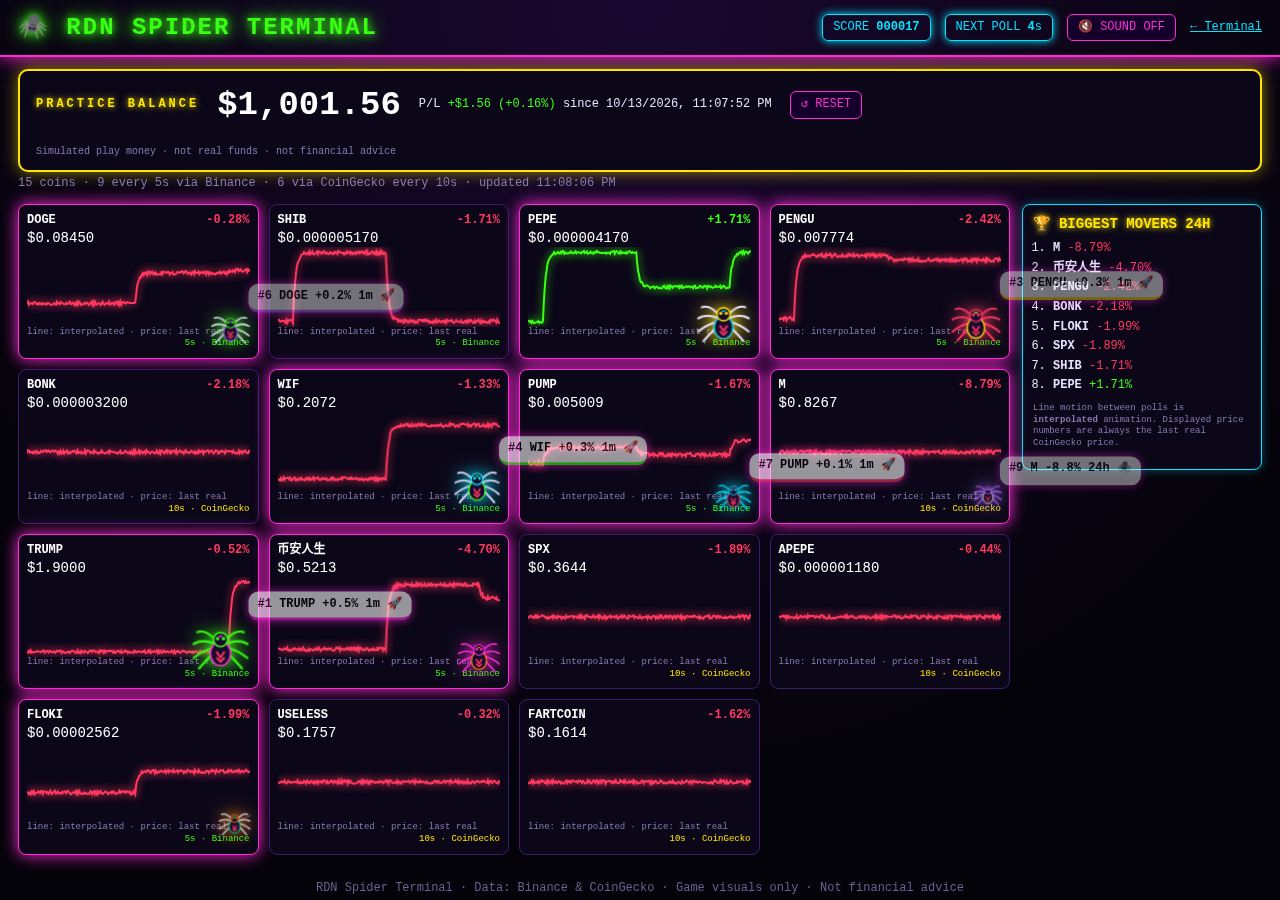
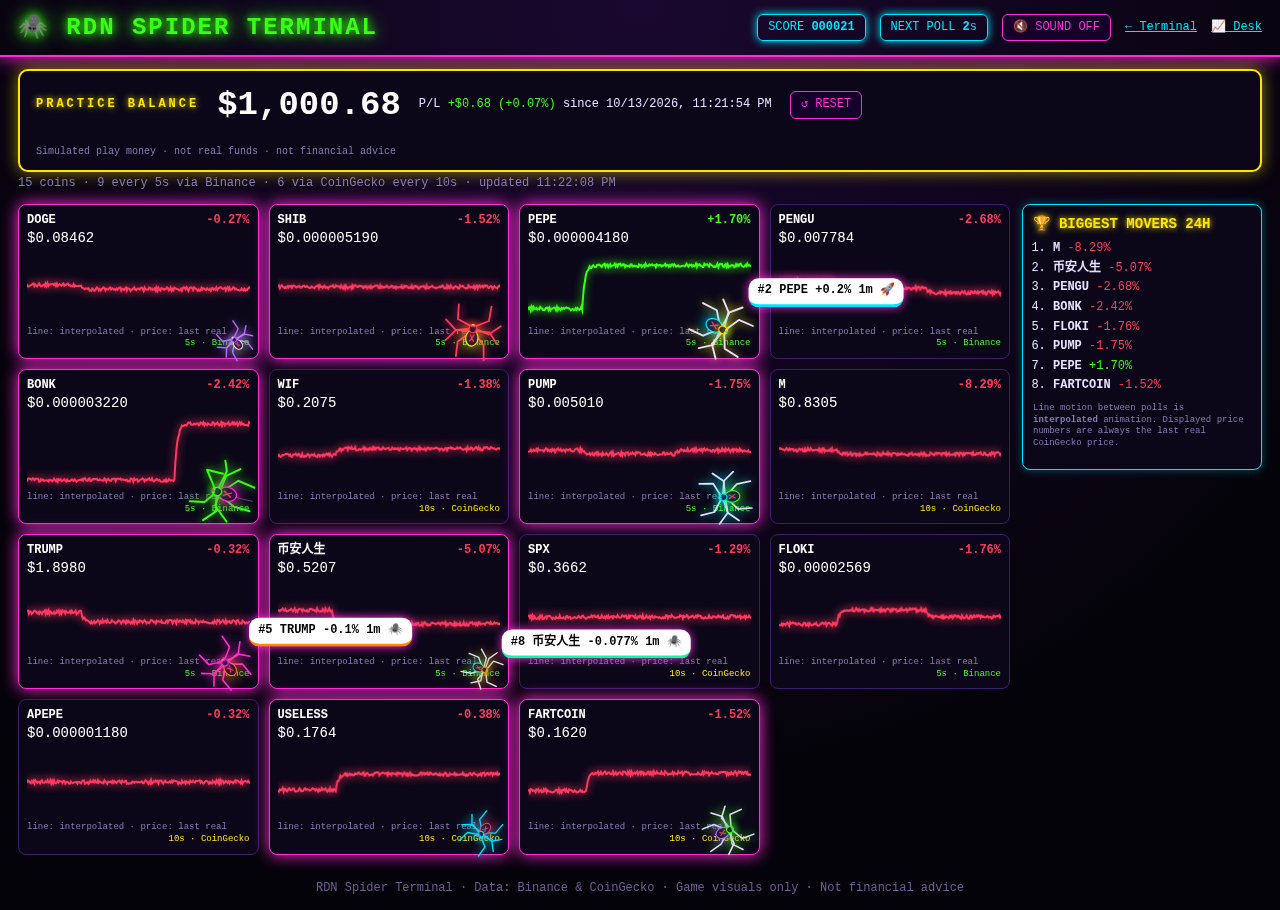
Procedural canvas spider (IK legs, tetrapod gait, smooth paths) on desk + skull

Changed region(s): [[0.0, 0.1556, 1.0, 0.9956], [0.0312, 0.0, 1.0, 0.1556]]

diff --git a/skull/index.html b/skull/index.html
@@ -14,8 +14,8 @@ button{background:#14002a;color:#ff2bd6;border:1px solid #ff2bd6;padding:5px 10p
 canvas.c{width:100%;height:80px;display:block}.p{font-size:14px;color:#fff}.lbl{font-size:9px;color:#8a7bb0}
 aside{background:#0b0718;border:1px solid #00e5ff;border-radius:8px;padding:10px;box-shadow:0 0 10px #00e5ff55;height:fit-content}
 aside h3{margin:0 0 8px;color:#ffe600;text-shadow:0 0 6px #ffe600}aside ol{margin:0;padding-left:20px}aside li{margin:4px 0}
-.sp{position:fixed;left:0;top:0;pointer-events:none;z-index:10}.sp svg{width:100%;height:100%;filter:drop-shadow(0 0 8px var(--c2))}.src{font-size:9px;float:right}.src.b{color:#39ff14}.src.g{color:#ffe600}
-#trail{position:fixed;inset:0;pointer-events:none;z-index:9}
+.src{font-size:9px;float:right}.src.b{color:#39ff14}.src.g{color:#ffe600}
+#trail{position:fixed;inset:0;pointer-events:none;z-index:9}.bub{z-index:11}
 .bub{position:fixed;left:0;top:0;transition:opacity .4s;z-index:11;background:#fff;color:#000;font-weight:700;padding:5px 9px;border-radius:10px;white-space:nowrap;pointer-events:none;box-shadow:0 0 10px #ff2bd6}
 #st{color:#8a7bb0;padding:0 18px}footer{text-align:center;color:#6d5f90;padding:14px}a{color:#00e5ff}
 @media(max-width:800px){.wrap{grid-template-columns:1fr}}
@@ -27,7 +27,7 @@ aside h3{margin:0 0 8px;color:#ffe600;text-shadow:0 0 6px #ffe600}aside ol{margi
 <div id="bal"><div class="bl">PRACTICE BALANCE</div><div id="bv">$1,000.00</div><div id="bp">P/L $0.00 (0.00%) since start</div><button id="brst">↺ RESET</button><div class="bn">Simulated play money · not real funds · not financial advice</div></div>
 <div id="st">Loading real prices…</div>
 <div class="wrap"><div id="grid"></div><aside><h3>🏆 BIGGEST MOVERS 24H</h3><ol id="lb"></ol><p class="lbl">Line motion between polls is <b>interpolated</b> animation. Displayed price numbers are always the last real CoinGecko price.</p></aside></div>
-<canvas id="trail"></canvas>
+<canvas id="trail"></canvas><script src="../spider.js"></script>
 <svg width="0" height="0" style="position:absolute"><style>.lg{stroke:var(--leg);stroke-width:2.2;fill:none;stroke-linecap:round}.L{transform-origin:32px 34px;animation:wg .18s infinite alternate ease-in-out}.R{transform-origin:32px 34px;animation:wg .18s infinite alternate-reverse ease-in-out}@keyframes wg{from{transform:rotate(-7deg)}to{transform:rotate(7deg)}}</style><defs><symbol id="spd" viewBox="0 0 64 64"><g class="L"><path class="lg" d="M28 30 Q16 18 8 22"/><path class="lg" d="M27 33 Q14 28 5 34"/><path class="lg" d="M27 36 Q14 40 6 48"/><path class="lg" d="M28 39 Q18 50 12 58"/></g>
 <g class="R"><path class="lg" d="M36 30 Q48 18 56 22"/><path class="lg" d="M37 33 Q50 28 59 34"/><path class="lg" d="M37 36 Q50 40 58 48"/><path class="lg" d="M36 39 Q46 50 52 58"/></g>
 <ellipse cx="32" cy="42" rx="10" ry="12" fill="#1a0b2e" stroke="var(--c1)" stroke-width="1.5"/><path d="M28 40 L32 46 L36 40 M28 46 L32 50 L36 46" stroke="#ff3860" stroke-width="2" fill="none"/>
@@ -83,25 +83,25 @@ function draw(o){const c=o.el.querySelector("canvas"),w=c.width=c.clientWidth,h=
 // 9 spiders
 const PAL=[["#ff2bd6","#39ff14"],["#00e5ff","#ffe600"],["#ffe600","#ff3860"],["#39ff14","#00e5ff"],["#ff8a00","#ff2bd6"],["#b26bff","#39ff14"],["#ff3860","#00e5ff"],["#00ffa3","#ff8a00"],["#ffffff","#b26bff"]];
 const tc=$("trail"),tg=tc.getContext("2d"),SP=[];
-for(let i=0;i<9;i++){const sz=Math.round(64-i*4),[c1,c2]=PAL[i],el=document.createElement("div");el.className="sp";el.style.cssText+=`width:${sz}px;height:${sz}px;--c1:${c1};--c2:${c2};--leg:${i%2?"#e8e0ff":c2}`;
- el.innerHTML=`<svg viewBox="0 0 64 64"><use href="#spd"/></svg>`;const b=document.createElement("div");b.className="bub";b.style.opacity=0;b.style.borderBottom=`3px solid ${c1}`;
- document.body.append(el,b);SP.push({el,b,sz,x:Math.random()*innerWidth,y:innerHeight-80,tx:0,ty:0,trail:[],c1,id:null,ph:Math.random()*6})}
+for(let i=0;i<9;i++){const S=Math.round(22-i*1.1),[c1,c2]=PAL[i],b=document.createElement("div");b.className="bub";b.style.opacity=0;b.style.borderBottom=`3px solid ${c1}`;document.body.append(b);
+ const sp=new RDNSpider({S,c1,c2,leg:i%2?"#e8e0ff":c2,speed:150+i*10,x:innerWidth*(.1+.08*i),y:innerHeight-60});SP.push({sp,b,sz:S*2.6,trail:[],c1,id:null})}
 function assign(){const r=order.map(i=>coins[i]).filter(o=>o.price!=null).sort((a,b)=>(Math.abs(b.recent||0)-Math.abs(a.recent||0))||(Math.abs(b.ch||0)-Math.abs(a.ch||0)));
  document.querySelectorAll(".card.hot").forEach(e=>e.classList.remove("hot"));
  SP.forEach((s,i)=>{const o=r[i];if(!o)return;if(s.id!==o.id&&i===0&&sound)beep((o.recent||o.ch)>=0);s.id=o.id;o.el.classList.add("hot");
-  const bb=o.el.getBoundingClientRect();s.tx=bb.left+bb.width-s.sz-6;s.ty=bb.top+bb.height-s.sz-14;
+  const bb=o.el.getBoundingClientRect();s.sp.setTarget(bb.left+bb.width-s.sz*.7,bb.top+bb.height-s.sz*.55);
   const pct=Math.abs(o.recent||0)>0.0005?o.recent:o.ch,lbl=Math.abs(o.recent||0)>0.0005?"1m":"24h",up=pct>=0;
   s.b.textContent=`#${i+1} ${o.sym} ${up?"+":""}${pct.toFixed(Math.abs(pct)<.1?3:1)}% ${lbl} ${up?"🚀":"🕷"}`;
   const slot=Math.floor(Date.now()/2500)%3;s.b.style.opacity=(i%3===slot)?1:0})}
 function beep(up){actx=actx||new AudioContext();const g=actx.createGain(),os=actx.createOscillator();os.type="square";os.frequency.value=up?880:220;g.gain.value=.05;os.connect(g).connect(actx.destination);os.start();os.stop(actx.currentTime+.12)}
 $("snd").onclick=()=>{sound=!sound;$("snd").textContent=sound?"🔊 SOUND ON":"🔇 SOUND OFF"};
 addEventListener("scroll",assign);addEventListener("resize",assign);
-(function loop(t){tc.width=innerWidth;tc.height=innerHeight;
- SP.forEach((s,i)=>{s.x+=(s.tx-s.x)*0.12;s.y+=(s.ty-s.y)*0.12;const wob=Math.sin(t/100+s.ph)*3;s.trail.push([s.x+s.sz/2,s.y+s.sz/2]);if(s.trail.length>40)s.trail.shift();
-  tg.strokeStyle="rgba(235,230,255,.35)";tg.lineWidth=1;tg.beginPath();s.trail.forEach((p,k)=>k?tg.lineTo(p[0],p[1]):tg.moveTo(p[0],p[1]));tg.stroke();
-  s.el.style.transform=`translate(${s.x}px,${s.y+wob}px) rotate(${(s.tx-s.x)*0.05}deg)`;
-  const bw=s.b.offsetWidth;s.b.style.transform=`translate(${s.x+s.sz+bw>innerWidth?s.x-bw-4:s.x+s.sz-4}px,${s.y-20+wob}px)`});
- requestAnimationFrame(loop)})(0);
+let lt=performance.now();function fit(){if(tc.width!==innerWidth||tc.height!==innerHeight){tc.width=innerWidth;tc.height=innerHeight}}
+(function loop(t){const dt=(t-lt)/1000;lt=t;fit();tg.clearRect(0,0,tc.width,tc.height);
+ SP.forEach(s=>{const p=s.sp;p.update(dt);s.trail.push([p.x,p.y]);if(s.trail.length>50)s.trail.shift();
+  tg.strokeStyle="rgba(235,230,255,.35)";tg.lineWidth=1;tg.beginPath();s.trail.forEach((q,k)=>k?tg.lineTo(q[0],q[1]):tg.moveTo(q[0],q[1]));tg.stroke()});
+ SP.forEach(s=>s.sp.draw(tg));
+ SP.forEach(s=>{const p=s.sp,bw=s.b.offsetWidth;s.b.style.transform=`translate(${p.x+s.sz/2+bw>innerWidth?p.x-bw-s.sz/2:p.x+s.sz/2}px,${p.y-s.sz*.6-18}px)`});
+ requestAnimationFrame(loop)})(performance.now());
 // practice balance (simulated only)
 const BK="rdnSpiderPractice";let PB=JSON.parse(localStorage.getItem(BK)||"null"),lastV=null;
 function balTick(){const ids=order.filter(i=>coins[i].price!=null);if(!ids.length)return;

diff --git a/desk/index.html b/desk/index.html
@@ -57,7 +57,7 @@ footer{text-align:center;color:#7a7f99;padding:8px;font-size:11px}a{color:#8ab4f
 <div class="lab" id="emaLab">EMA 9 / EMA 21 · source: Binance (data-stream.binance.vision)</div><div id="chart"></div></div>
 <div class="panel balwrap"><div class="lab">Balance · live — <b>simulated paper account</b>, started $1,000</div>
 <div class="btot"><div class="v" id="bv">$1,000.00</div><div class="mono" id="bpl"></div></div>
-<div id="bal"></div><canvas id="silk"></canvas><div id="spider"><svg viewBox="0 0 64 64"><use href="#spd"/></svg></div><div id="sbub">🕷 warming up</div></div>
+<div id="bal"></div><canvas id="silk"></canvas><div id="sbub">🕷 warming up</div></div>
 <div class="bottom">
 <div class="panel"><div class="lab">Activity tape · simulated paper trades (EMA 9/21 cross on real 1m candles, 0.1% fee)</div><div id="tape"><table><thead><tr><th>Time</th><th>Side</th><th>Size</th><th>Price</th><th>Notional</th><th>P&amp;L</th></tr></thead><tbody id="tb"></tbody></table></div></div>
 <div class="panel"><div class="lab">Verdict · BTC/USDT</div><div id="sigs"></div>
@@ -65,6 +65,7 @@ footer{text-align:center;color:#7a7f99;padding:8px;font-size:11px}a{color:#8ab4f
 </div>
 <footer>RDN Spider Desk · Data: Binance public market data · Paper trading · simulated money · no real orders · not financial advice</footer>
 </div>
+<script src="../spider.js"></script>
 <script>
 const R="https://data-api.binance.vision/api/v3",WS="wss://data-stream.binance.vision/stream?streams=";
 const $=i=>document.getElementById(i),f$=n=>n.toLocaleString("en-US",{style:"currency",currency:"USD"}),fp=n=>n.toLocaleString("en-US",{minimumFractionDigits:2,maximumFractionDigits:2});
@@ -111,15 +112,17 @@ $("verdict").onclick=()=>{const g=signals();if(!g||!last)return;if(g.v==="WAIT")
 // ---- balance chart + spider
 const bc=LightweightCharts.createChart($("bal"),{...opt,rightPriceScale:{visible:false},timeScale:{visible:false},grid:{vertLines:{visible:false},horzLines:{color:"#151829"}},handleScroll:false,handleScale:false});
 bc.priceScale("right").applyOptions({scaleMargins:{top:.3,bottom:.2}});const bs=bc.addAreaSeries({lineColor:"#2ee6a6",topColor:"#2ee6a644",bottomColor:"#2ee6a600",lineWidth:2,priceLineVisible:false});
-let spx=60,spy=60,bubT=0;function bub(p){$("sbub").textContent=(p>=0?"+":"−")+f$(Math.abs(p)).replace("$","$")+(p>=0?" 🕷💰":" 🕸");$("sbub").style.borderBottomColor=p>=0?"#2ee6a6":"#ff4d6d";bubT=Date.now()}
-(function loop(t){const wrap=document.querySelector(".balwrap"),cv=$("silk"),W=wrap.clientWidth,H=wrap.clientHeight;cv.width=W;cv.height=H;const g=cv.getContext("2d");
- const L=P.hist.at(-1);let tx=W*.7,ty=H*.5;if(L){const x=bc.timeScale().timeToCoordinate(L.time),y=bs.priceToCoordinate(L.value),o=$("bal").offsetTop;if(x!=null&&y!=null){tx=x+$("bal").offsetLeft;ty=y+o}}
- const sz=$("spider").offsetWidth;spx+=(tx-sz/2-spx)*.08;spy+=(ty-sz/2-spy)*.08;const wob=Math.sin(t/110)*3;
- g.strokeStyle="rgba(235,230,255,.5)";g.lineWidth=1;g.beginPath();g.moveTo(spx+sz/2,0);g.lineTo(spx+sz/2,spy+sz/2+wob);g.stroke();g.beginPath();g.arc(tx,ty,4,0,7);g.fillStyle="#ff2bd6";g.fill();
- $("spider").style.transform=`translate(${spx}px,${spy+wob}px)`;const bw=$("sbub").offsetWidth;$("sbub").style.transform=`translate(${Math.max(4,spx-bw-4)}px,${spy-6+wob}px)`;
- $("sbub").style.opacity=Date.now()-bubT<15000?1:.75;requestAnimationFrame(loop)})(0);
+let bubT=0;function bub(p){$("sbub").textContent=(p>=0?"+":"−")+f$(Math.abs(p)).replace("$","$")+(p>=0?" 🕷💰":" 🕸");$("sbub").style.borderBottomColor=p>=0?"#2ee6a6":"#ff4d6d";bubT=Date.now()}
+let LINE=[],cxp=null,lt=performance.now();const SPD=new RDNSpider({S:30,c1:"#ff2bd6",c2:"#39ff14",x:40,y:60});
+function cacheLine(){const o=$("bal"),ox=o.offsetLeft,oy=o.offsetTop,ts=bc.timeScale();LINE=[];for(const p of P.hist){const x=ts.timeToCoordinate(p.time),y=bs.priceToCoordinate(p.value);if(x!=null&&y!=null)LINE.push([x+ox,y+oy])}}
+function yAt(x){if(!LINE.length)return null;if(x<=LINE[0][0])return LINE[0][1];for(let i=1;i<LINE.length;i++)if(LINE[i][0]>=x){const a=LINE[i-1],b=LINE[i],t=(x-a[0])/((b[0]-a[0])||1);return a[1]+(b[1]-a[1])*t}return LINE.at(-1)[1]}
+(function loop(t){const dt=Math.min(.05,(t-lt)/1000);lt=t;const wrap=document.querySelector(".balwrap"),cv=$("silk"),W=wrap.clientWidth,H=wrap.clientHeight;if(cv.width!==W||cv.height!==H){cv.width=W;cv.height=H}const g=cv.getContext("2d");g.clearRect(0,0,W,H);
+ if(LINE.length){const end=LINE.at(-1);if(cxp==null)cxp=LINE[0][0]+20;const d=end[0]-cxp,v=RDN_REDUCED.matches?1e9:Math.max(40,Math.min(160,Math.abs(d)*1.5));cxp+=Math.sign(d)*Math.min(Math.abs(d),v*dt);
+  const y=yAt(cxp);SPD.setCarrot(cxp,y-SPD.S*.35);g.beginPath();g.arc(end[0],end[1],4,0,7);g.fillStyle="#ff2bd6";g.fill()}
+ SPD.update(dt);g.strokeStyle="rgba(235,230,255,.5)";g.lineWidth=1;g.beginPath();g.moveTo(SPD.x-SPD.S*.5*Math.cos(SPD.h),0);g.lineTo(SPD.x-SPD.S*.9*Math.cos(SPD.h),SPD.y-SPD.S*.9*Math.sin(SPD.h));g.stroke();SPD.draw(g);
+ const bw=$("sbub").offsetWidth;$("sbub").style.transform=`translate(${Math.max(4,SPD.x-bw-SPD.S*1.3)}px,${SPD.y-SPD.S*1.6}px)`;$("sbub").style.opacity=Date.now()-bubT<15000?1:.75;requestAnimationFrame(loop)})(performance.now());
 // ---- render every second
-function render(){const px=last||(m1.at(-1)||{}).close;if(!px)return;mark(Date.now()/1000,px);bs.setData(P.hist);bc.timeScale().fitContent();bc.timeScale().applyOptions({rightOffset:Math.max(5,P.hist.length*.12)});const col=e=>e;
+function render(){const px=last||(m1.at(-1)||{}).close;if(!px)return;mark(Date.now()/1000,px);bs.setData(P.hist);bc.timeScale().fitContent();bc.timeScale().applyOptions({rightOffset:Math.max(5,P.hist.length*.12)});cacheLine();
  const e=equity(px),pl=e-1000,cc=pl>=0?"#2ee6a6":"#ff4d6d";bs.applyOptions({lineColor:cc,topColor:cc+"44",bottomColor:cc+"00"});$("bv").style.color=cc;$("bv").textContent=f$(e);$("hbank").textContent=f$(e);$("bpl").innerHTML=`P/L <span class="${pl>=0?"up":"dn"}">${pl>=0?"+":""}${f$(pl)} (${(pl/10).toFixed(2)}%)</span> · max DD ${P.dd.toFixed(2)}%`;
  $("hbtc").textContent="$"+fp(px);$("px").textContent=fp(px);
  if(t24){$("chg").innerHTML=`<span class="${+t24.P>=0?"up":"dn"}">${+t24.P>=0?"+":""}${(+t24.P).toFixed(2)}% 24h</span>`;$("vol").textContent="$"+(+t24.q/1e9).toFixed(2)+"B"}

diff --git a/spider.js b/spider.js
@@ -1,0 +1,51 @@
+// RDN procedural spider: spring-followed carrot on curved paths, 8 legs, 2-segment IK, tetrapod gait.
+(function(){
+const RM=matchMedia("(prefers-reduced-motion: reduce)");
+const FX=[1.314, 0.448, -0.524, -1.324],FY=[0.821, 1.379, 1.298, 0.704],HX=[.22,.1,-.02,-.14],GA=[0,5,2,7];
+const lerp=(a,b,t)=>a+(b-a)*t,ease=t=>t<.5?2*t*t:1-Math.pow(-2*t+2,2)/2,ang=a=>Math.atan2(Math.sin(a),Math.cos(a));
+class Spider{
+ constructor(o){Object.assign(this,{S:22,c1:"#ff2bd6",c2:"#39ff14",leg:"#e8e0ff",speed:260,x:0,y:0},o);this.vx=this.vy=0;this.h=-Math.PI/2;
+  this.cx=this.x;this.cy=this.y;this.path=null;this.tx=this.x;this.ty=this.y;this.idle=0;this.tw=1+Math.random()*2;this.bob=0;
+  this.legs=[];for(let i=0;i<8;i++){const p=this.rest(i);this.legs.push({fx:p[0],fy:p[1],step:null})}}
+ w(lx,ly){const c=Math.cos(this.h),s=Math.sin(this.h);return[this.x+lx*c-ly*s,this.y+lx*s+ly*c]}
+ side(i){return i<4?-1:1}
+ rest(i,lead=0){const k=i%4,sd=this.side(i);return this.w(FX[k]*this.S+lead,sd*FY[k]*this.S)}
+ hip(i){const k=i%4;return this.w(HX[k]*this.S,this.side(i)*.12*this.S)}
+ // curved path to a target (skull mode)
+ setTarget(tx,ty,bend=.35){if(Math.hypot(tx-this.tx,ty-this.ty)<3)return;this.tx=tx;this.ty=ty;
+  if(RM.matches){this.x=this.cx=tx;this.y=this.cy=ty;this.path=null;for(let i=0;i<8;i++){const p=this.rest(i);this.legs[i].fx=p[0];this.legs[i].fy=p[1];this.legs[i].step=null}return}
+  const sx=this.cx,sy=this.cy,dx=tx-sx,dy=ty-sy,L=Math.hypot(dx,dy)||1,sg=(Math.random()<.5?-1:1)*bend*L;
+  this.path={sx,sy,qx:(sx+tx)/2-dy/L*sg,qy:(sy+ty)/2+dx/L*sg,tx,ty,t:0,dur:Math.max(.35,L/this.speed)}}
+ // direct carrot (desk mode)
+ setCarrot(x,y){this.path=null;this.cx=x;this.cy=y;this.tx=x;this.ty=y;if(RM.matches){this.x=x;this.y=y}}
+ update(dt){dt=Math.min(dt,.05);if(this.path){const p=this.path;p.t=Math.min(1,p.t+dt/p.dur);const e=ease(p.t),u=1-e;
+   this.cx=u*u*p.sx+2*u*e*p.qx+e*e*p.tx;this.cy=u*u*p.sy+2*u*e*p.qy+e*e*p.ty;if(p.t>=1)this.path=null}
+  if(RM.matches){this.x=this.cx;this.y=this.cy;return}
+  const k=60,ax=k*(this.cx-this.x)-2*Math.sqrt(k)*this.vx,ay=k*(this.cy-this.y)-2*Math.sqrt(k)*this.vy;
+  this.vx+=ax*dt;this.vy+=ay*dt;this.x+=this.vx*dt;this.y+=this.vy*dt;const sp=Math.hypot(this.vx,this.vy);
+  if(sp>12){const d=ang(Math.atan2(this.vy,this.vx)-this.h);this.h+=d*Math.min(1,dt*8)}
+  // gait
+  const thr=this.S*.42,lead=Math.min(sp*.09,this.S*.6),dur=Math.max(.07,Math.min(.16,this.S*3/(sp+1)));
+  const busy=g=>g.some(i=>this.legs[i].step),A=GA,B=[0,1,2,3,4,5,6,7].filter(i=>!A.includes(i));
+  for(const g of [A,B]){const other=g===A?B:A;if(busy(g)||busy(other))continue;
+   if(g.some(i=>{const r=this.rest(i);return Math.hypot(r[0]-this.legs[i].fx,r[1]-this.legs[i].fy)>thr})){
+    const vn=sp>1?[this.vx/sp,this.vy/sp]:[0,0];for(const i of g){const r=this.rest(i),L=this.legs[i];L.step={ox:L.fx,oy:L.fy,nx:r[0]+vn[0]*lead,ny:r[1]+vn[1]*lead,t:0,d:dur}}break}}
+  for(let i=0;i<8;i++){const L=this.legs[i],r=this.rest(i);if(!L.step&&Math.hypot(r[0]-L.fx,r[1]-L.fy)>this.S*1.6)L.step={ox:L.fx,oy:L.fy,nx:r[0],ny:r[1],t:0,d:dur}}
+  this.idle=sp<6?this.idle+dt:0;
+  if(this.idle>.8&&(this.tw-=dt)<0){this.tw=1.2+Math.random()*2.5;const i=Math.floor(Math.random()*8),L=this.legs[i];if(!L.step){const r=this.rest(i),j=this.S*.18;L.step={ox:L.fx,oy:L.fy,nx:r[0]+(Math.random()-.5)*j,ny:r[1]+(Math.random()-.5)*j,t:0,d:.18,tw:1}}}
+  let lift=0;for(const L of this.legs){if(!L.step)continue;const s=L.step;s.t=Math.min(1,s.t+dt/s.d);const e=ease(s.t);L.fx=lerp(s.ox,s.nx,e);L.fy=lerp(s.oy,s.ny,e);L.lift=Math.sin(Math.PI*s.t)*(s.tw?.12:.3)*this.S;lift=Math.max(lift,s.tw?0:Math.sin(Math.PI*s.t));if(s.t>=1){L.step=null;L.lift=0}}
+  this.bob=lerp(this.bob,lift,Math.min(1,dt*20))}
+ draw(g){const S=this.S;g.save();g.lineCap="round";g.lineJoin="round";
+  g.shadowColor=this.c2;g.shadowBlur=8;g.strokeStyle=this.leg;g.lineWidth=Math.max(1.4,S*.09);
+  this.legs.forEach((L,i)=>{const[hx,hy]=this.hip(i),R0=this.rest(i),rd=Math.hypot(R0[0]-hx,R0[1]-hy),a=rd*.56,b=rd*.56;let fx=L.fx,fy=L.fy-(L.lift||0)*.5;{const q=Math.hypot(fx-hx,fy-hy),m=(a+b)*.98;if(q>m){fx=hx+(fx-hx)/q*m;fy=hy+(fy-hy)/q*m}}const dx=fx-hx,dy=fy-hy,d=Math.min(Math.hypot(dx,dy),a+b-.01),base=Math.atan2(dy,dx);
+   const ca=Math.acos(Math.max(-1,Math.min(1,(a*a+d*d-b*b)/(2*a*d))));let best=null,bd=-Infinity;for(const sg of[-1,1]){const kx=hx+Math.cos(base+sg*ca)*a,ky=hy+Math.sin(base+sg*ca)*a,dd=((kx-this.x)*-Math.sin(this.h)+(ky-this.y)*Math.cos(this.h))*this.side(i);if(dd>bd){bd=dd;best=[kx,ky]}}
+   const kx=best[0],ky=best[1]-(L.lift||0);g.beginPath();g.moveTo(hx,hy);g.lineTo(kx,ky);g.lineTo(fx,fy);g.stroke()});
+  const bb=(1+this.bob*.06)*.8;g.translate(this.x,this.y-this.bob*S*.08);g.rotate(this.h);g.scale(bb,bb);
+  g.shadowColor=this.c1;g.shadowBlur=14;g.fillStyle="#1a0b2e";g.strokeStyle=this.c1;g.lineWidth=Math.max(1.2,S*.07);
+  g.beginPath();g.ellipse(-.48*S,0,.5*S,.38*S,0,0,7);g.fill();g.stroke();
+  g.fillStyle="#ff3860";g.shadowBlur=0;g.beginPath();g.moveTo(-.68*S,-.12*S);g.lineTo(-.48*S,0);g.lineTo(-.68*S,.12*S);g.moveTo(-.28*S,-.12*S);g.lineTo(-.48*S,0);g.lineTo(-.28*S,.12*S);g.strokeStyle="#ff3860";g.stroke();
+  g.shadowColor=this.c2;g.shadowBlur=10;g.fillStyle="#1a0b2e";g.strokeStyle=this.c2;g.beginPath();g.ellipse(.12*S,0,.26*S,.22*S,0,0,7);g.fill();g.stroke();
+  g.fillStyle=this.c2;for(const s of[-1,1]){g.beginPath();g.arc(.3*S,s*.09*S,.06*S+.6,0,7);g.fill()}g.fillStyle=this.c1;for(const s of[-1,1]){g.beginPath();g.arc(.36*S,s*.035*S,.03*S+.4,0,7);g.fill()}
+  g.restore()}}
+window.RDNSpider=Spider;window.RDN_REDUCED=RM;
+})();
